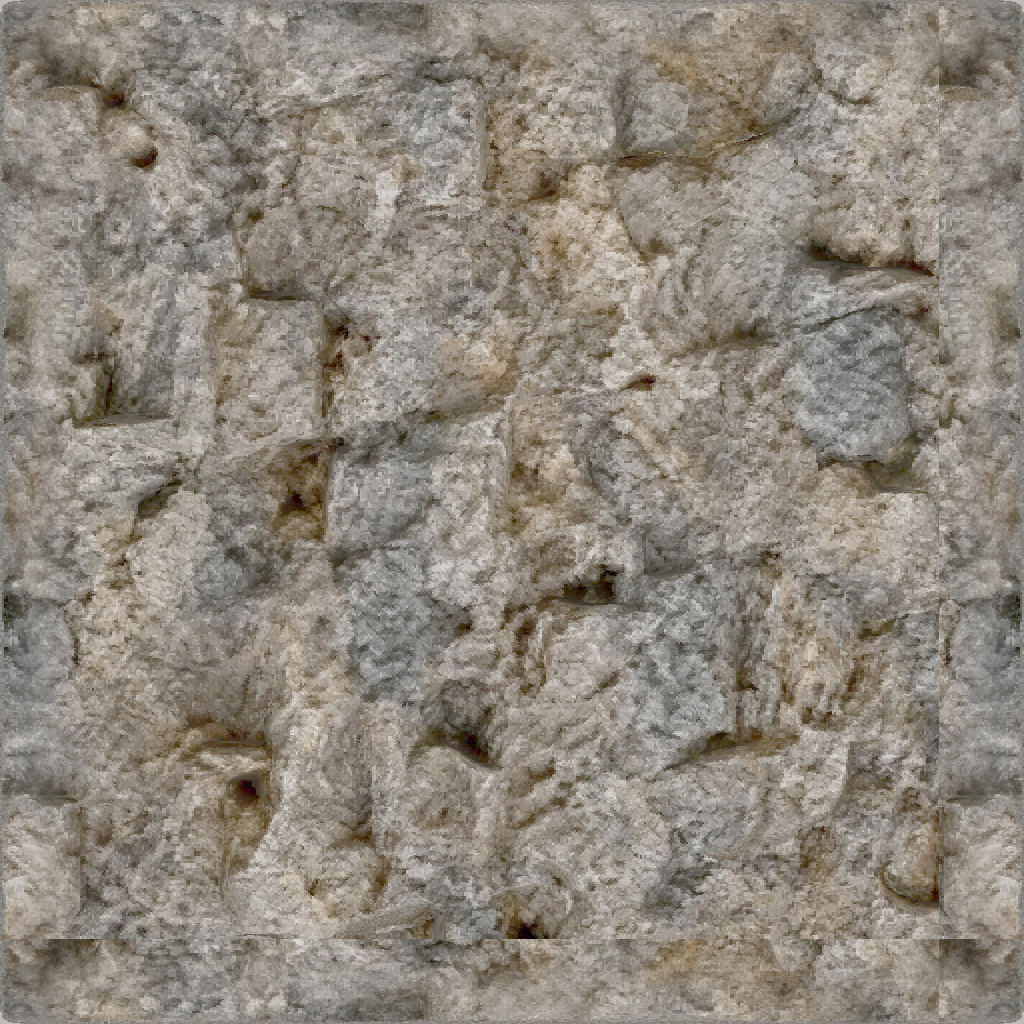
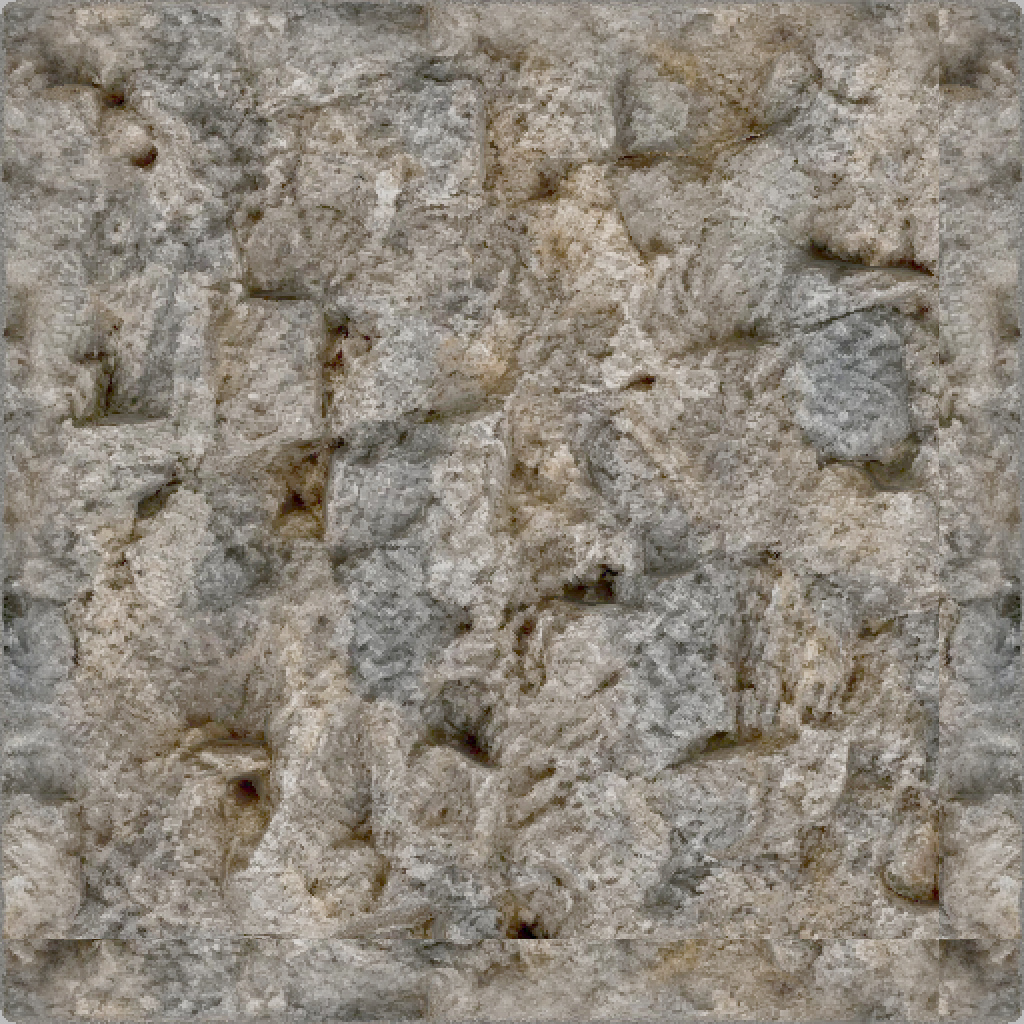
Tile the scanned cliff at its own size instead of stretching it over a panel
The bake laid the scan over the whole front of the model and stretched it
onto the 2 x 3.5 m panel. The model is about 1 x 1 m, so every block came
out twice as wide and three and a half times as tall — and exactly as deep
as before. A 5 cm crack became a 10 cm dent. That is half of the answer to
"in game it looks far less coarse than in the Tripo viewer": the handwriting
was there, just smeared by a factor of 2 to 3.5.

Now the scan is taken at its own size (512 x 512 rays over one square metre,
averaged onto a 256 px tile) and the panel map is TILED from it: 3 x 4 tiles
with 8 cm overlap, each in a different pose from the square's dihedral group,
cross-faded across the overlap so no 1 m grid of hard edges appears. The
outer border ramp to the neutral level stays untouched — that is the recipe's
seam rule, and it must not depend on how the map was composed.

Measured on the two maps (inner crop, 256 px/m): mean gradient 1.369 -> 2.691
per metre, autocorrelation half-length across the wall 8.2 -> 6.2 cm. Through
the recipe: mean facet slope 9.8 -> 11.7 degrees, share of edges above 20
degrees 13.9 -> 21.7 %. The scan's own depth span reads 18.1 cm over one metre
of wall, which is where PROT = 18 cm comes from.

The spread constants of the sampler are re-measured against the new map
(1st/99th percentile) — they are a property of the file, not a taste.

Honest limit: it stays ONE square metre of rock, turned and mirrored twelve
[…]

diff --git a/tools/elements/pipeline/backe-hoehenkarte.py b/tools/elements/pipeline/backe-hoehenkarte.py
@@ -37,14 +37,43 @@
 #     `…_normal.jpg` (Non-Color), `…_rm.png` (Non-Color, glTF-Kanäle:
 #     G = Roughness, B = Metallic). Eine UV-Lage `UVMap`.
 #
+# ── KACHELN STATT STRECKEN (Mass B, 05.09.2026) ────────────────────────
+# Bis heute wurde der Scan über die GANZE Vorderseite des Modells gelegt
+# und auf 2 × 3,5 m GESTRECKT. Das Modell ist rund 1 × 1 m gross; jeder
+# Brocken wurde damit doppelt so breit und dreieinhalbmal so hoch, seine
+# TIEFE aber nicht — eine 5 cm breite Kluft wurde 10 cm breit und blieb
+# 5 cm tief. Genau das ist Mikes Befund „im Spiel sieht es viel weniger
+# grob aus als im Tripo-Viewer": Die Handschrift war da, nur um den
+# Faktor 2 bis 3,5 verwaschen.
+#
+# Deshalb wird jetzt in ORIGINALGRÖSSE gescannt (eine Kachel von 1 × 1 m)
+# und die Paneelkarte daraus GEKACHELT: 2 Kacheln nebeneinander, 3,5
+# übereinander. Zwei Dinge halten die Wiederholung in Grenzen:
+#
+#   * Jede Kachel bekommt eine eigene ORIENTIERUNG aus der Diedergruppe
+#     des Quadrats (8 Möglichkeiten: spiegeln in x, spiegeln in z,
+#     Vierteldrehung). Zwei benachbarte Kacheln tragen nie dieselbe.
+#   * Die Kacheln überlappen sich um `KACHEL_NAHT` und werden in der
+#     Überlappung ineinander geblendet. Ohne das stünde an jeder
+#     Kachelgrenze eine harte Kante im 1-m-Raster — und ein Gitter aus
+#     1-m-Kanten wäre schlimmer als der verwaschene Fels.
+#
+# Ehrlich dazu: Es bleibt EIN Quadratmeter Gestein, zwölfmal gedreht. Was
+# die Kachelung liefert, ist der MASSSTAB, nicht mehr Material. Mehr
+# Material hiesse ein zweiter Scan.
+#
 # ── Warum welche Auflösung ─────────────────────────────────────────────
-# HÖHENKARTE 512 × 896, 16 Bit. Die Karte hat genau EINEN Verbraucher:
-# `felsrelief.py` tastet sie auf dem 0,125-m-Raster ab — 17 × 25
-# Stützstellen je Wandpaneel. 512 × 896 sind bereits 32 Bildpunkte je
-# Rasterschritt; bei 1024 × 1792 wären es 64, und kein einziges Dreieck
-# mehr. Was 16 Bit dagegen SEHR wohl trägt: 8 Bit auf 9 cm Hub sind
-# 0,35 mm Stufen, und die stehen als Terrassen in der schrägen
-# Bruchfläche. Die Auflösung ist billig, die Bittiefe nicht.
+# HÖHENKARTE 512 × 896, 16 Bit — das bleibt, es ist die Paneelfläche bei
+# 256 Bildpunkten je Meter. `felsrelief.py` tastet sie auf seinem Raster
+# ab (heute 0,0625 m, also 16 Bildpunkte je Rasterschritt). Was 16 Bit
+# trägt: 8 Bit auf 18 cm Hub wären 0,7 mm Stufen, und die stehen als
+# Terrassen in der schrägen Bruchfläche. Die Auflösung ist billig, die
+# Bittiefe nicht.
+#
+# Der SCAN dagegen ist jetzt quadratisch (512 × 512 Strahlen über die
+# Vorderseite des Modells) und damit BILLIGER als die 458 752 von gestern.
+# Die Höhenkachel wird daraus auf 256 × 256 heruntergemittelt (das ist
+# 1 m bei 256 px/m), die Texturen wie bisher auf 1024² gebracht.
 #
 # TEXTUREN 1024², 8 Bit. Sie gehen einen völlig anderen Weg: nicht ins
 # Netz, sondern triplanar ins Steinmaterial
@@ -102,7 +131,14 @@ AUTO = "--auto" in ARGS
 PANEEL_B, PANEEL_H = 2.0, 3.5   # Wandpaneel des Kits
 KARTE_B, KARTE_H = 512, 896     # 512/2,0 = 256 px/m, 896/3,5 = 256 px/m
 TEX = 1024
-TIEFE_MAX = 0.09                # Relieftiefe: PROT im Fels-Stil
+SCAN = 512                      # Strahlen je Achse über die Vorderseite
+KACHEL_M = 1.0                  # Kantenlänge einer Kachel in Metern
+KACHEL = 256                    # ... in Bildpunkten (= 256 px/m)
+KACHEL_NAHT = 20                # Überlappung zweier Kacheln, in Bildpunkten
+                                # (rund 8 cm — schmal genug, dass die
+                                # Überblendung als Kluft liest, breit genug,
+                                # dass keine Kante stehen bleibt)
+TIEFE_MAX = 0.18                # Relieftiefe: PROT im Fels-Stil
 RAND_M = 0.03                   # Randstreifen auf Nullniveau (Nahtregel)
 UEBERBLEND_M = 0.09             # Breite der Überblendung hinter dem Rand
 
@@ -225,6 +261,84 @@ def ueberblende_kachelrand(feld, breite):
     return feld
 
 
+# ── Die acht Lagen einer quadratischen Kachel ──────────────────────────
+# Die Diedergruppe des Quadrats: Spiegeln in x, Spiegeln in z, Drehen um
+# 90 Grad — acht Möglichkeiten, dieselbe Kachel hinzulegen. Sie sind der
+# einzige Vorrat an Verschiedenheit, den EIN Scan hergibt.
+#
+# Warum kein zyklischer VERSATZ dazu: Die Kachel ist nicht in sich
+# kachelbar (sie ist ein Ausschnitt aus einem Fels, keine Textur). Ein
+# Versatz legte deshalb mitten in die Kachel eine Kante — und zwar eine,
+# die keine Überblendung auffängt, weil sie nicht an der Kachelgrenze
+# liegt. Drehen und Spiegeln lassen die Kachel dagegen unversehrt.
+def _lage(kachel, k):
+    a = kachel
+    if k & 1:
+        a = a[:, ::-1]
+    if k & 2:
+        a = a[::-1, :]
+    if k & 4:
+        a = a.T
+    return np.ascontiguousarray(a)
+
+
+def _rampe(n, u):
+    """Fensterfunktion einer Kachelspur: über `u` Punkte auf, über `u` ab.
+
+    Zwei benachbarte Kacheln überlappen sich um genau `u`; dort ist die
+    eine Rampe `t` und die andere `1-t`, die Summe also 1. An den beiden
+    Enden der Spur fehlt der Partner — deshalb wird am Ende durch die
+    aufsummierten Gewichte GETEILT statt sich auf die Summe zu verlassen.
+    """
+    w = np.ones(n, dtype=np.float32)
+    t = np.linspace(0.0, 1.0, u + 2, dtype=np.float32)[1:-1]
+    t = t * t * (3.0 - 2.0 * t)
+    w[:u] = t
+    w[n - u:] = t[::-1]
+    return w
+
+
+def kachel_zu_paneel(scan):
+    """Aus dem quadratischen Scan die Paneelkarte 512 × 896 kacheln.
+
+    Der Scan hat SCAN × SCAN Punkte und deckt EINEN Quadratmeter Fels
+    (Mass B, s. Kopf). Er wird zuerst auf KACHEL × KACHEL gemittelt — das
+    ist dieselbe Bildpunktdichte wie die Paneelkarte (256 px/m), und
+    gemittelt statt gepickt, weil ein herausgegriffener Bildpunkt aus
+    einer 3-cm-Kluft eine Zufallszahl macht.
+
+    Dann werden die Kacheln mit Überlappung `KACHEL_NAHT` und je eigener
+    Lage nebeneinandergelegt; in der Überlappung blenden sie ineinander.
+    """
+    f = SCAN // KACHEL
+    kachel = scan[: KACHEL * f, : KACHEL * f].reshape(KACHEL, f, KACHEL, f).mean(axis=(1, 3))
+    kachel = kachel.astype(np.float32)
+
+    u = KACHEL_NAHT
+    schritt = KACHEL - u
+    nx = max(1, -(-(KARTE_B - u) // schritt))
+    nz = max(1, -(-(KARTE_H - u) // schritt))
+    breit = (nx - 1) * schritt + KACHEL
+    hoch = (nz - 1) * schritt + KACHEL
+    summe = np.zeros((hoch, breit), dtype=np.float32)
+    gewicht = np.zeros((hoch, breit), dtype=np.float32)
+    fenster = _rampe(KACHEL, u)[:, None] * _rampe(KACHEL, u)[None, :]
+    for jz in range(nz):
+        for jx in range(nx):
+            # Die Lage haengt nur an (jx, jz) — kein Zufallsgenerator, damit
+            # ein zweiter Backlauf dieselbe Karte legt. Der Sprung um 3 in x
+            # und 5 in z sorgt dafuer, dass weder waagerechte noch senkrechte
+            # Nachbarn und auch nicht die uebernaechsten dieselbe Lage tragen.
+            k = (3 * jx + 5 * jz) % 8
+            z0, x0 = jz * schritt, jx * schritt
+            summe[z0:z0 + KACHEL, x0:x0 + KACHEL] += _lage(kachel, k) * fenster
+            gewicht[z0:z0 + KACHEL, x0:x0 + KACHEL] += fenster
+    paneel = summe / np.maximum(gewicht, 1e-6)
+    print(f"KACHELN {nx} x {nz} a {KACHEL_M:.1f} m, Naht {u} Punkte "
+          f"({u / KACHEL * KACHEL_M * 100:.0f} cm), Rohflaeche {breit}x{hoch}")
+    return paneel[:KARTE_H, :KARTE_B]
+
+
 def main():
     netz = lade()
     netz.data.calc_loop_triangles()
@@ -257,7 +371,7 @@ def main():
     # Ein Punkt je Bildpunkt der HÖHENKARTE; die Texturen entstehen aus
     # demselben Scan (quadratisch nachgerechnet, s. u.), damit Farbe und
     # Form garantiert derselben Stelle des Gesteins entstammen.
-    nb, nh = KARTE_B, KARTE_H
+    nb = nh = SCAN
     start_y = mn.y - 1.0 if FRONT < 0 else mx.y + 1.0
     richtung = Vector((0.0, 1.0 if FRONT < 0 else -1.0, 0.0))
     weite = (mx.y - mn.y) + 2.0
@@ -298,7 +412,7 @@ def main():
             # Wand heraus. Die Vorderseite ist -y, also zeigt +Z der Karte
             # auf -y der Welt: FRONT * fn.y.
             nrm[iz, ix] = (fn.x, fn.z, FRONT * fn.y)
-        if iz % 128 == 0:
+        if iz % 64 == 0:
             print(f"  Zeile {iz}/{nh}")
     print(f"STRAHLEN fehl={fehl} von {nb*nh}")
 
@@ -307,10 +421,15 @@ def main():
     d0, d1 = float(tiefe[gueltig].min()), float(tiefe[gueltig].max())
     hoehe = np.where(gueltig, 1.0 - (tiefe - d0) / max(1e-6, d1 - d0), 0.0)
     print(f"TIEFE roh {d0:.3f} .. {d1:.3f} Einheiten "
-          f"(Spanne {(d1-d0):.3f} = {(d1-d0)/(mx.x-mn.x)*PANEEL_B*100:.1f} cm "
-          f"auf 2 m Paneelbreite ohne Klemme)")
+          f"(Spanne {(d1-d0):.3f} = {(d1-d0)/(mx.x-mn.x)*KACHEL_M*100:.1f} cm "
+          f"auf {KACHEL_M:.0f} m Kachelbreite, also in Originalgroesse)")
 
-    # ── Schritt 4: Randstreifen und Überblendung ───────────────────────
+    # ── Schritt 4a: aus der Kachel die Paneelkarte legen ───────────────
+    hoehe_kachel = hoehe
+    hoehe = kachel_zu_paneel(hoehe)
+    nb, nh = KARTE_B, KARTE_H
+
+    # ── Schritt 4b: Randstreifen und Überblendung ──────────────────────
     # Die Karte ist die Vorlage EINES Paneels von 2 × 3,5 m. `felsrelief.py`
     # setzt den eigentlichen Nahtschluss (Randniveau, 0,125-m-Raster); was
     # die Karte beisteuert, ist ein Rand, der schon in der Vorlage auf
@@ -366,19 +485,21 @@ def main():
     # z 1,75-mal feiner beprobt als in x (896 auf 3,5 m gegen 512 auf 2 m
     # — beide 256 px/m), das Verhältnis der Quelle ist dagegen quadratisch.
     def quadrat(feld):
-        zi = (np.arange(TEX) * (nh / TEX)).astype(int)
-        xi = (np.arange(TEX) * (nb / TEX)).astype(int)
+        zi = (np.arange(TEX) * (SCAN / TEX)).astype(int)
+        xi = (np.arange(TEX) * (SCAN / TEX)).astype(int)
         return feld[zi][:, xi]
 
     alb_q = ueberblende_kachelrand(quadrat(alb).copy(), TEX // 12)
     rau_q = ueberblende_kachelrand(quadrat(rau).copy(), TEX // 12)
     nrm_q = quadrat(nrm).copy()
 
-    # Detail-Normale: Gradient des (auf Texturmass gebrachten) Höhenfeldes
-    # abziehen — den trägt das Netz schon.
-    h_q = quadrat(hoehe).astype(np.float32)
-    gx = np.gradient(h_q, axis=1) * (TEX / PANEEL_B) * TIEFE_MAX
-    gz = np.gradient(h_q, axis=0) * (TEX / PANEEL_H) * TIEFE_MAX
+    # Detail-Normale: Gradient des Höhenfeldes abziehen — den trägt das
+    # Netz schon. Gerechnet wird auf der KACHEL, nicht auf der
+    # Paneelkarte: Die Textur ist quadratisch und deckt einen
+    # Quadratmeter, das Höhenfeld hier also ebenfalls.
+    h_q = quadrat(hoehe_kachel).astype(np.float32)
+    gx = np.gradient(h_q, axis=1) * (TEX / KACHEL_M) * TIEFE_MAX
+    gz = np.gradient(h_q, axis=0) * (TEX / KACHEL_M) * TIEFE_MAX
     # Die Normale steht der Steigung ENTGEGEN: bei nach rechts steigender
     # Hoehe kippt sie nach links. Deshalb minus.
     nrm_q[:, :, 0] -= gx

diff --git a/tools/elements/blender/felsrelief.py b/tools/elements/blender/felsrelief.py
@@ -369,16 +369,24 @@ _KREUZ = ((0.0, 0.0, 0.36), (-0.5, 0.0, 0.16), (0.5, 0.0, 0.16),
           (0.0, -0.5, 0.16), (0.0, 0.5, 0.16))
 
 # ── Spreizung: warum die Karte NICHT roh in den Hub geht ────────────────
-# Der Mittelungskreuz kostet Kontrast — das ist sein Zweck, aber es hat
-# einen Preis. Über ein volles Paneel gemessen (200 x 120 Punkte,
-# 05.09.2026) liegen die gemittelten Werte zwischen 0,331 und 0,953,
-# während die rohe Karte 0,129 .. 0,994 ausschöpft. Roh übernommen
-# stünde die tiefste Stelle der Wand bei 4,7 cm Rückzug statt bei 7,5 —
-# von 9 cm Reliefdicke wären zwei Drittel ungenutzt, und die steilste
-# Flanke bliebe unter 21 Grad. Die Spreizung holt den Bereich zurück,
-# den die Abtastung gekostet hat, und NICHT mehr: sie ist an gemessenen
-# Grenzen festgemacht, nicht an einem Geschmacksfaktor.
-KARTE_LO, KARTE_HI = 0.175, 0.987
+# Das Mittelungskreuz kostet Kontrast — das ist sein Zweck, aber es hat
+# einen Preis. Die Spreizung holt den Bereich zurück, den die Abtastung
+# gekostet hat, und NICHT mehr: sie ist an GEMESSENEN Grenzen
+# festgemacht, nicht an einem Geschmacksfaktor.
+#
+# Die Zahlen sind am 05.09.2026 an der GEKACHELTEN Karte (Mass B) über
+# acht Feldschlüssel und 3072 Stützstellen bestimmt worden: 1. Perzentil
+# 0,085, 99. Perzentil 0,866, Mittelwert 0,589. `LO`/`HI` liegen dicht
+# an diesen Perzentilen. Was ausserhalb liegt, wird GEKLEMMT, und das ist
+# Absicht: Oben entstehen dadurch ebene Flächen auf der Wandflucht (die
+# Zusage aus Zwang 2 — irgendwo muss Material ganz vorn stehen), unten
+# ebene Kluftgründe. Beides sind Flächen, wie sie ein gebrochener Fels
+# hat; eine Kurve ohne Klemme ergäbe statt dessen überall Wölbung.
+#
+# Die vorige Fassung (0,175 .. 0,987) gehörte zur GESTRECKTEN Karte, die
+# ihre Werte anders verteilt hat. Wer die Karte neu backt, misst diese
+# beiden Zahlen mit nach — sie sind eine Eigenschaft der Datei.
+KARTE_LO, KARTE_HI = 0.080, 0.820
 
 # ── Warum das Kreuz nicht nur MITTELT ──────────────────────────────────
 # Der erste Kontaktbogen mit der Karte (05.09.2026,

diff --git a/tools/elements/pipeline/quellen/tripo/rock-wall-01/HERKUNFT.md b/tools/elements/pipeline/quellen/tripo/rock-wall-01/HERKUNFT.md
@@ -36,7 +36,7 @@ festgelegt.
 
 | Datei | Format | Wozu |
 |---|---|---|
-| `rock-wall-01-hoehe.png` | 512 × 896, 16 Bit Graustufe | Höhenfeld eines Wandpaneels (2 × 3,5 m, 9 cm Hub). Liest `felsrelief.py` mit `--relief-quelle`. |
+| `rock-wall-01-hoehe.png` | 512 × 896, 16 Bit Graustufe | Höhenfeld eines Wandpaneels (2 × 3,5 m, 18 cm Hub) — **gekachelt aus einer 1-m-Kachel**, nicht mehr gestreckt (s. u.). Liest `felsrelief.py` mit `--relief-quelle`. |
 | `stein_tripo_rock.png` | 1024², sRGB | Albedo für das triplanare Steinmaterial (`STEIN_TEXTUREN`). |
 | `stein_tripo_rock_normal.png` | 1024², Tangentenraum | Detail-Normale — das Korn **unterhalb** des 0,125-m-Rasters; der Gradient des Höhenfeldes ist abgezogen, weil ihn das Netz schon trägt. |
 | `rock-wall-01-roughness.png` | 1024², Graustufe | Rauheit aus dem Tripo-`_rm` (G-Kanal). **Heute unbenutzt:** `DungeonSteinMaterial.ts` hat keinen Rauheitskanal; die Karte liegt hier, damit sie nicht neu gebacken werden muss, wenn er kommt. |
@@ -44,6 +44,38 @@ festgelegt.
 Die beiden `stein_tripo_rock*`-Dateien liegen zusätzlich unter
 `assets/models/` — dort holt sie der Client, hier stehen sie als Erzeugnis
 des Rezepts.
+
+## Kacheln statt strecken (05.09.2026, Mass B)
+
+Die erste Fassung legte den Scan über die **ganze** Vorderseite und streckte
+ihn auf 2 × 3,5 m. Das Modell ist rund 1 × 1 m gross — jeder Brocken wurde
+damit doppelt so breit und dreieinhalbmal so hoch, seine **Tiefe** aber
+nicht. Aus einer 5 cm breiten, 5 cm tiefen Kluft wurde eine 10 cm breite,
+5 cm tiefe Mulde. Genau das war Mikes Befund „im Spiel sieht es viel weniger
+grob aus als im Tripo-Viewer".
+
+Jetzt wird in Originalgrösse gescannt (512 × 512 Strahlen über einen
+Quadratmeter, gemittelt auf eine Kachel von 256 × 256 Bildpunkten = 256 px/m)
+und die Paneelkarte daraus **gekachelt**: 3 × 4 Kacheln mit 8 cm Überlappung,
+jede in einer anderen Lage der Diedergruppe des Quadrats (spiegeln, drehen),
+in der Überlappung ineinander geblendet. Der äussere Randstreifen auf das
+neutrale Niveau bleibt, wie er war — er ist die Nahtregel des Rezepts.
+
+Gemessen an den beiden Karten (innerer Ausschnitt, 256 px/m):
+
+| | gestreckt | gekachelt |
+|---|---|---|
+| mittlerer Gradient | 1,369 / m | **2,691 / m** |
+| Halbwertslänge der Autokorrelation in x | 8,2 cm | **6,2 cm** |
+| Tiefenspanne des Scans | 37,1 cm auf 2 m Paneelbreite | **18,1 cm auf 1 m Kachelbreite** |
+
+Die 18,1 cm sind die eigentliche Auskunft: So grob ist dieser Fels in
+Wirklichkeit, und `PROT` = 18 cm im Kit ist damit keine gewählte Zahl,
+sondern die gemessene.
+
+**Ehrlich dazu:** Es bleibt **ein** Quadratmeter Gestein, zwölfmal gedreht
+und gespiegelt. Die Kachelung liefert den Massstab, nicht mehr Material.
+Mehr Material hiesse: ein zweiter Scan.
 
 ## Neu backen
 

diff --git a/tools/elements/README.md b/tools/elements/README.md
@@ -179,7 +179,7 @@ Eine Datei kam per `git mv` aus dem Repo selbst, fünf sind hier entstanden.
 |---|---|---|
 | `make-fels.py` | `tools/elements/pipeline/make-fels.py` | Erzeugt: das kachelbare Fels-Texturpaar `stein_fels.png` + `stein_fels_normal.png` (1024², prozedural auf dem Torus). Ersetzt für diesen Fall `texture-kit.py` + `make-normal.py`: Die Kachelung ist Konstruktion statt Nachbearbeitung, und die Normal-Karte entsteht aus dem HÖHENFELD statt aus der Helligkeit — mit umlaufender Ableitung und einer Stärke in Metern. |
 
-| `backe-hoehenkarte.py` | `tools/elements/pipeline/backe-hoehenkarte.py` | Erzeugt: Höhenkarte, Detail-Normale, Albedo und Rauheit aus einem gescannten Felsmodell (Tripo) — die Vorlage für `felsrelief.py --relief-quelle`. Strahlsonde über die vermessene Vorderseite; Auflösung 512 × 896 (16 Bit) für die Form, 1024² für die Texturen, und der Kopf begründet beides. |
+| `backe-hoehenkarte.py` | `tools/elements/pipeline/backe-hoehenkarte.py` | Erzeugt: Höhenkarte, Detail-Normale, Albedo und Rauheit aus einem gescannten Felsmodell (Tripo) — die Vorlage für `felsrelief.py --relief-quelle`. Strahlsonde über die vermessene Vorderseite; seit Mass B (05.09.2026) wird in ORIGINALGRÖSSE gescannt (512 × 512 Strahlen über einen Quadratmeter) und die Paneelkarte 512 × 896 daraus GEKACHELT — 3 × 4 Kacheln, je eigene Lage aus der Diedergruppe, 8 cm Überblendung. Vorher wurde der 1-m-Scan auf 2 × 3,5 m gestreckt, und das war die halbe Antwort auf „die Wand sieht flacher aus als das Modell“. |
 
 ### pipeline/quellen/ — Quelltexturen, ohne Kopfzeile
 
@@ -203,7 +203,7 @@ Backens: Karten, die `felsrelief.py` und das Steinmaterial lesen.
 | Datei | Zweck |
 |---|---|
 | `pipeline/quellen/tripo/rock-wall-01/HERKUNFT.md` | Herkunft, Vermessung und Neubau-Aufruf der Tripo-Felswand vom 05.09.2026. |
-| `pipeline/quellen/tripo/rock-wall-01/rock-wall-01-hoehe.png` | Höhenfeld eines Wandpaneels, 512 × 896, 16 Bit — Eingang von `felsrelief.py --relief-quelle`. |
+| `pipeline/quellen/tripo/rock-wall-01/rock-wall-01-hoehe.png` | Höhenfeld eines Wandpaneels, 512 × 896, 16 Bit, aus einer 1-m-Kachel gekachelt — Eingang von `felsrelief.py --relief-quelle`. |
 | `pipeline/quellen/tripo/rock-wall-01/rock-wall-01-roughness.png` | Rauheit aus dem Tripo-`_rm`. Heute unbenutzt (das Steinmaterial hat keinen Rauheitskanal), liegt hier für den Tag, an dem es einen bekommt. |
 | `pipeline/quellen/tripo/rock-wall-01/stein_tripo_rock.png` | Albedo des Tripo-Felsens, 1024², in `STEIN_TEXTUREN` wählbar. |
 | `pipeline/quellen/tripo/rock-wall-01/stein_tripo_rock_normal.png` | Detail-Normale dazu; der Gradient des Höhenfeldes ist abgezogen, weil ihn das Netz schon als Dreiecke trägt. |
